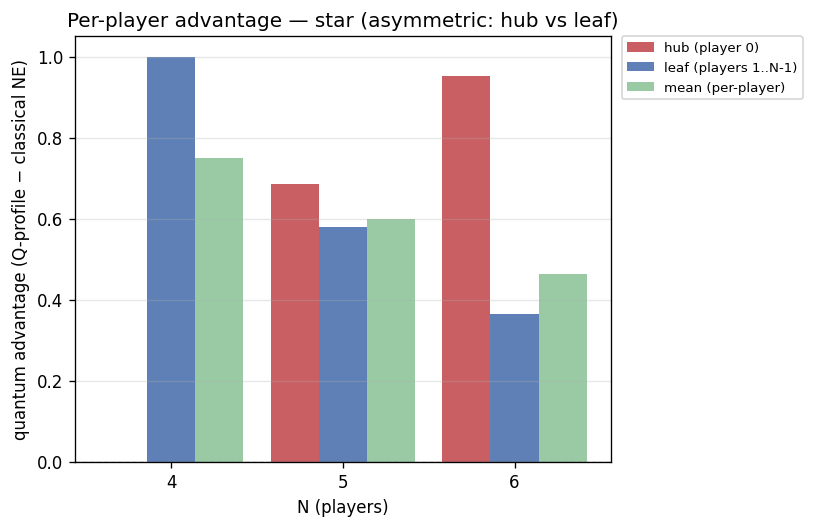
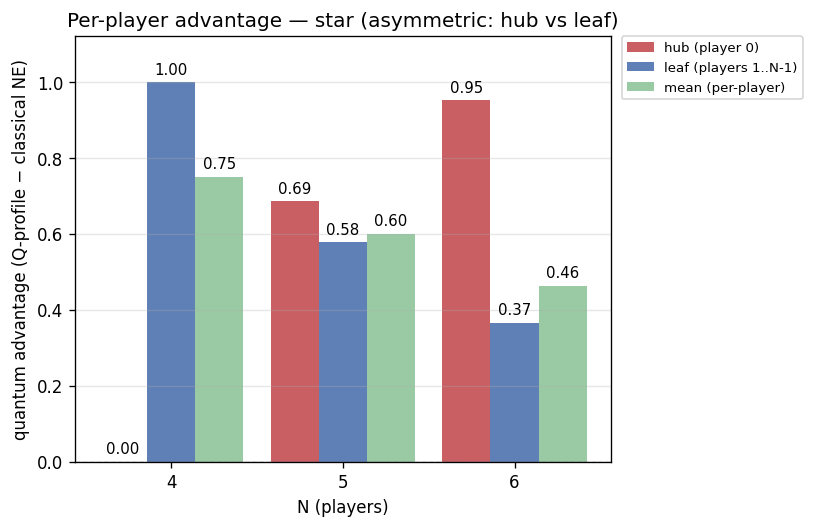
Label star advantage bars and correct figure caption

diff --git a/src/experiment/plots.py b/src/experiment/plots.py
@@ -376,9 +376,12 @@ def _per_player_advantage(ok: list[CellResult], plots_dir: Path) -> list[str]:
         x = np.arange(len(ns), dtype=float)
         w = 0.28
         fig, ax = plt.subplots(figsize=(1.3 * len(ns) + 3, 4.5))
-        ax.bar(x - w, hub, width=w, label="hub (player 0)", color="#c44e52", alpha=0.9)
-        ax.bar(x, leaf, width=w, label="leaf (players 1..N-1)", color="#4c72b0", alpha=0.9)
-        ax.bar(x + w, mean, width=w, label="mean (per-player)", color="#55a868", alpha=0.6)
+        hub_bars = ax.bar(x - w, hub, width=w, label="hub (player 0)", color="#c44e52", alpha=0.9)
+        leaf_bars = ax.bar(x, leaf, width=w, label="leaf (players 1..N-1)", color="#4c72b0", alpha=0.9)
+        mean_bars = ax.bar(x + w, mean, width=w, label="mean (per-player)", color="#55a868", alpha=0.6)
+        for bars in (hub_bars, leaf_bars, mean_bars):
+            ax.bar_label(bars, fmt="%.2f", padding=3, fontsize=9)
+        ax.margins(y=0.12)
         ax.axhline(0.0, color="grey", linewidth=0.8, linestyle="--", zorder=1)
         ax.set_xticks(x, [str(n) for n in ns])
         ax.set_xlabel("N (players)")

diff --git a/paper/qhd.tex b/paper/qhd.tex
@@ -952,8 +952,8 @@ the hub--leaf split pulls it to $0.463$.
 \includegraphics[width=\linewidth]{per_player_advantage_star.png}
 \caption{Star-topology per-player circuit-relative payoff gap (hub player 0
 vs.\ each leaf) at $\gamma=\pi/2$, $V{=}4, C{=}3$, noiseless, for
-$N=2\ldots6$. The leaves capture the gap at small $N$; the hub captures it at
-large $N$; the mean (dashed) tracks $3/N$ until $N{=}6$. Data:
+$N=4\ldots6$. Labels show gaps to two decimal places, including the
+numerically zero hub gap at $N{=}4$; green bars show the per-player mean. Data:
 \texttt{results/n-scaling-advantage/2026-07-19T0901Z}.}
 \label{fig:star}
 \end{figure}

diff --git a/docs/reviews/2026-09-08-validation.md b/docs/reviews/2026-09-08-validation.md
@@ -45,15 +45,25 @@ requires this repository's Git history. Package compilation requires a LaTeX
 installation. No command above submits a QPU job. The three recorded jobs retain
 their original total charge of 175 seconds and their original acceptance results.
 
-PR creation is currently blocked by the installed `gstack-redact-prepush` hook:
+The initial push was blocked by the installed `gstack-redact-prepush` hook:
 it reports `HIGH engine.input_too_large` when the added-line input exceeds its
 1 MiB cap. The rejected push did not identify a specific credential. The new
 branch's diff against the default branch includes older history; even historical
 commit `03d642d` adds approximately 1.28 MB of scan input by itself. Ordinary
 smaller pushes therefore cannot fully resolve the limit. The hook was not
-disabled or bypassed. The branch and reviewed artifacts are committed locally,
-but no PR was created and GitHub CI has not run for this branch. The scanner
-needs a supported larger-input path before the normal push can complete.
+disabled or bypassed. Following the user's explicit request to resolve the
+blocker and create the PR, the local hook now passes the engine's supported
+`maxBytes` option with a bounded 8 MiB limit. All input is still scanned and HIGH
+findings still block. Checks verified that a clean input larger than 1 MiB is
+scanned, a synthetic credential in that input is detected, and input exceeding
+8 MiB is rejected. PR checks report the subsequent GitHub CI status.
+
+The Phase 1 star chart was re-rendered from the retained results JSON with
+two-decimal labels on all bars. The N=4 hub remains
+`2.220446049250313e-16` in the source and displays `0.00`. The source JSON SHA256
[1 lines of base64/hex data omitted]
+The caption now describes N=4..6 and green mean bars. Phases 2 and 3 remain
+pending the requested between-phase review.
 
 This record does not constitute external peer review or
 prove absence of every defect. See the accompanying full-project audit for the

diff --git a/paper/README.md b/paper/README.md
@@ -75,4 +75,6 @@ the protected local `paper/qhd.pdf`. The source archive includes IEEEtran.cls.
   `results/n-scaling-advantage/2026-07-19T0901Z/`.
 - `figs/advantage_vs_gamma_N4.png` — from `results/gamma-sweep/N4/`.
 - `figs/per_player_advantage_star.png` — from
-  `results/n-scaling-advantage/2026-07-19T0901Z/`.
+  `results/n-scaling-advantage/2026-07-19T0901Z/results.json`, re-rendered
+  September 8 with two-decimal labels on every bar, including the numerically
+  zero N=4 hub. Original run artifacts and numerical data are unchanged.
